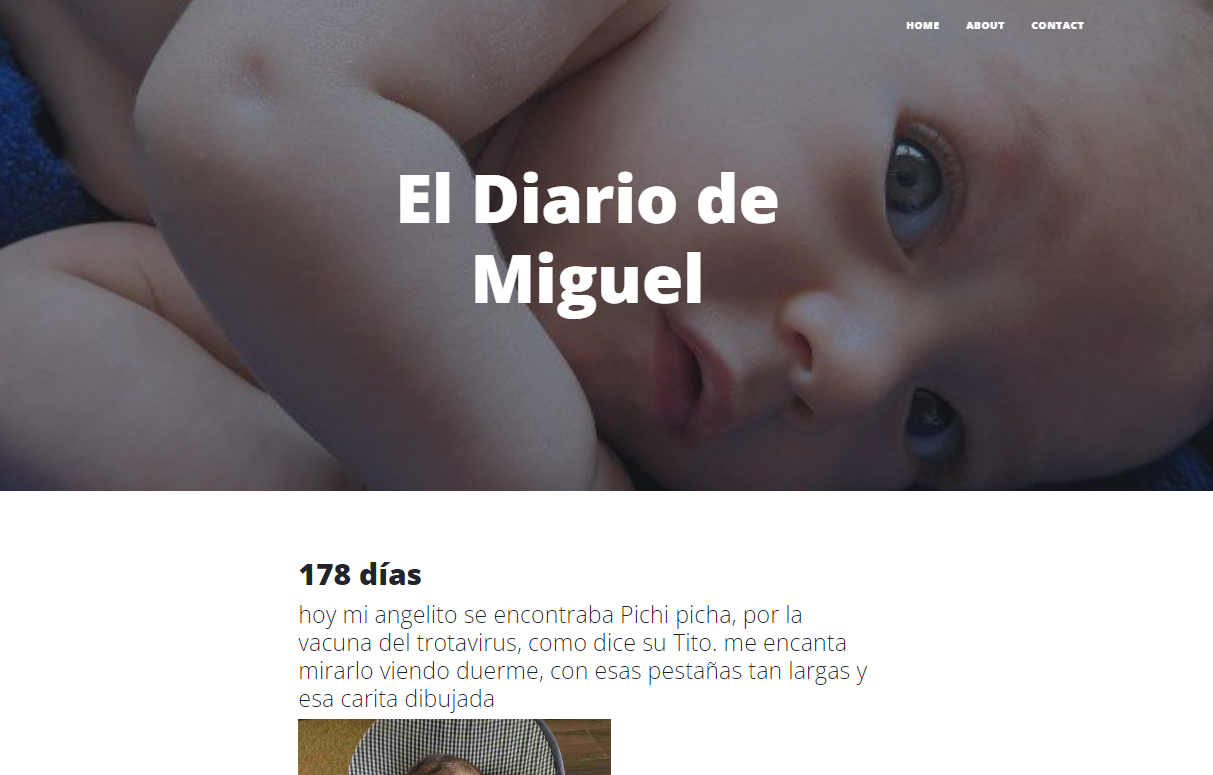
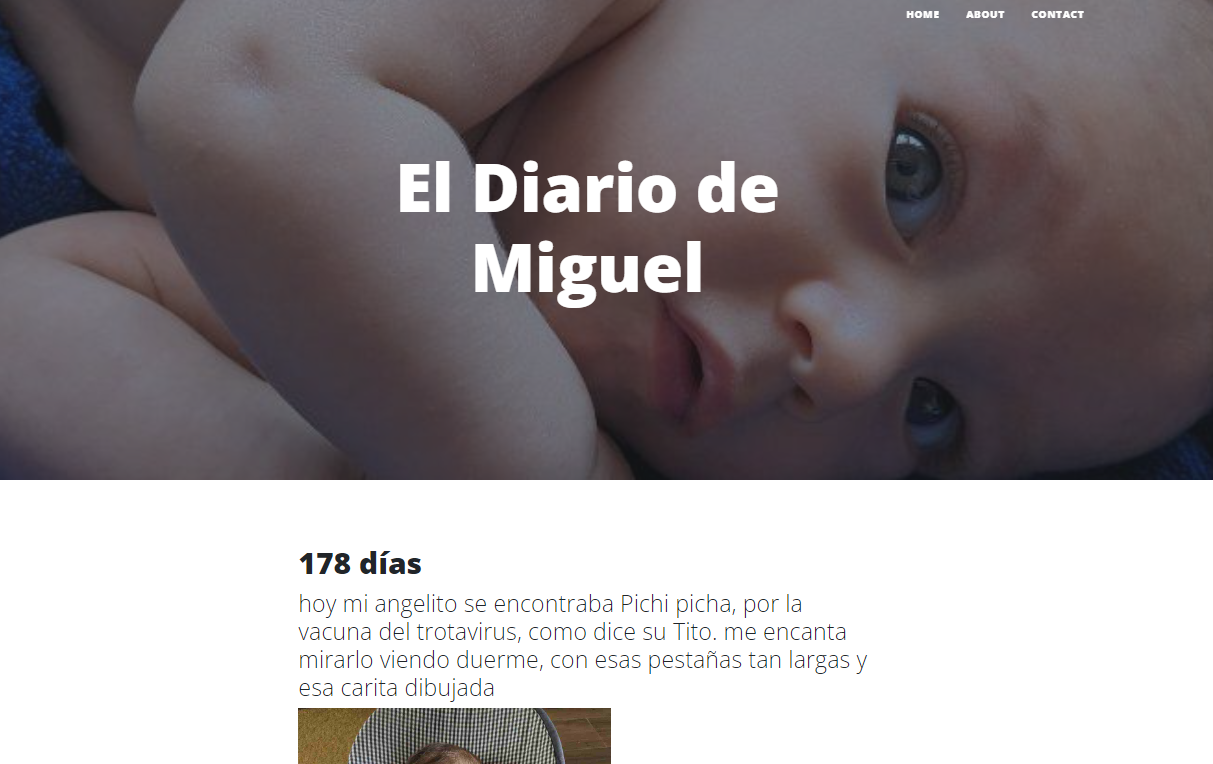
fix pictures size and remove box 3 from last section

diff --git a/index.html b/index.html
@@ -167,7 +167,7 @@
 				<section id="content">
 					<div class="container">
 						<div class="row aln-center">
-							<div class="col-3 col-12-medium">
+							<div class="col-4 col-12-medium">
 
 								<!-- Box #1 -->
 									<section>
@@ -178,11 +178,13 @@
 
 										<p>
 											Mi experiencia en desarrollo backend y DevOps está respaldada por cualidades como la disciplina, la creatividad y habilidades organizativas, que adquirí a través de mi formación como violinista profesional. Esta formación me ha enseñado a trabajar con precisión y atención al detalle.
+
+											Mi insaciable curiosidad y compromiso con el aprendizaje continuo me impulsan a enfrentar nuevos desafíos y buscar soluciones innovadoras, aportando una perspectiva única y diversa a cualquier proyecto.</p>
 										</p>
 									</section>
 
 							</div>
-							<div class="col-3 col-6-medium col-12-small">
+							<div class="col-4 col-6-medium col-12-small">
 
 								<!-- Box #2 -->
 									<section>
@@ -200,20 +202,8 @@
 									</section>
 
 							</div>
-							<div class="col-3 col-6-medium col-12-small">
-								<!-- Box #3a -->
-								<section>
-									<header>
-										<h2>Actitud y Motivación</h2>
-										<h3></h3>
-									</header>
-									<a href="#" class="feature-image"><img src="images/Logo.png" alt="" /></a>
-									<p>
-										Mi insaciable curiosidad y compromiso con el aprendizaje continuo me impulsan a enfrentar nuevos desafíos y buscar soluciones innovadoras, aportando una perspectiva única y diversa a cualquier proyecto.</p>
-								</section>
 
-							</div>
-							<div class="col-3 col-6-medium col-12-small">
+							<div class="col-4 col-6-medium col-12-small">
 								<!-- Box #3 -->
 									<section>
 										<header>
